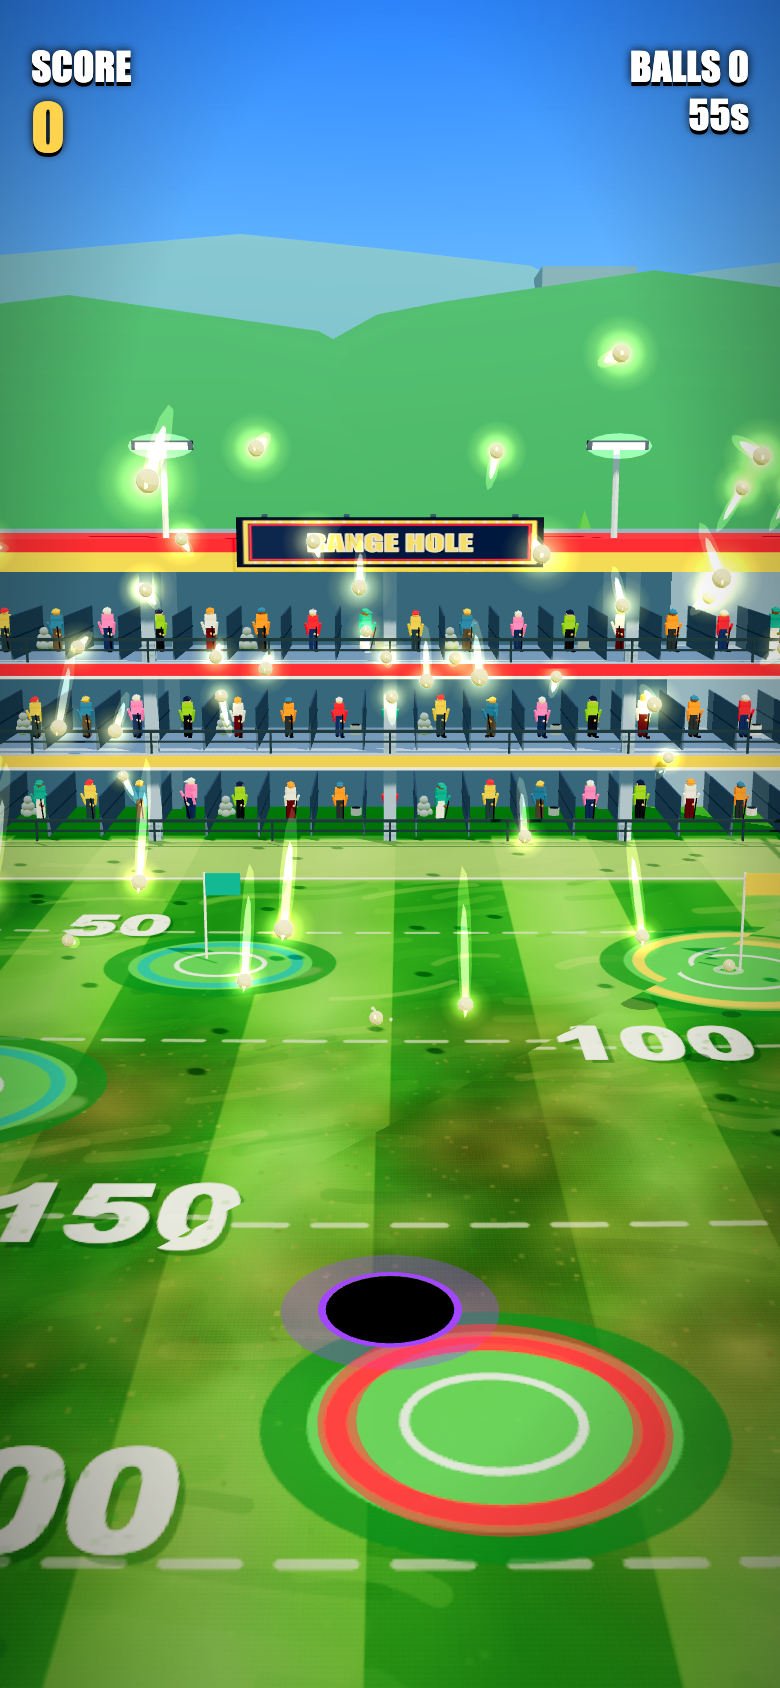
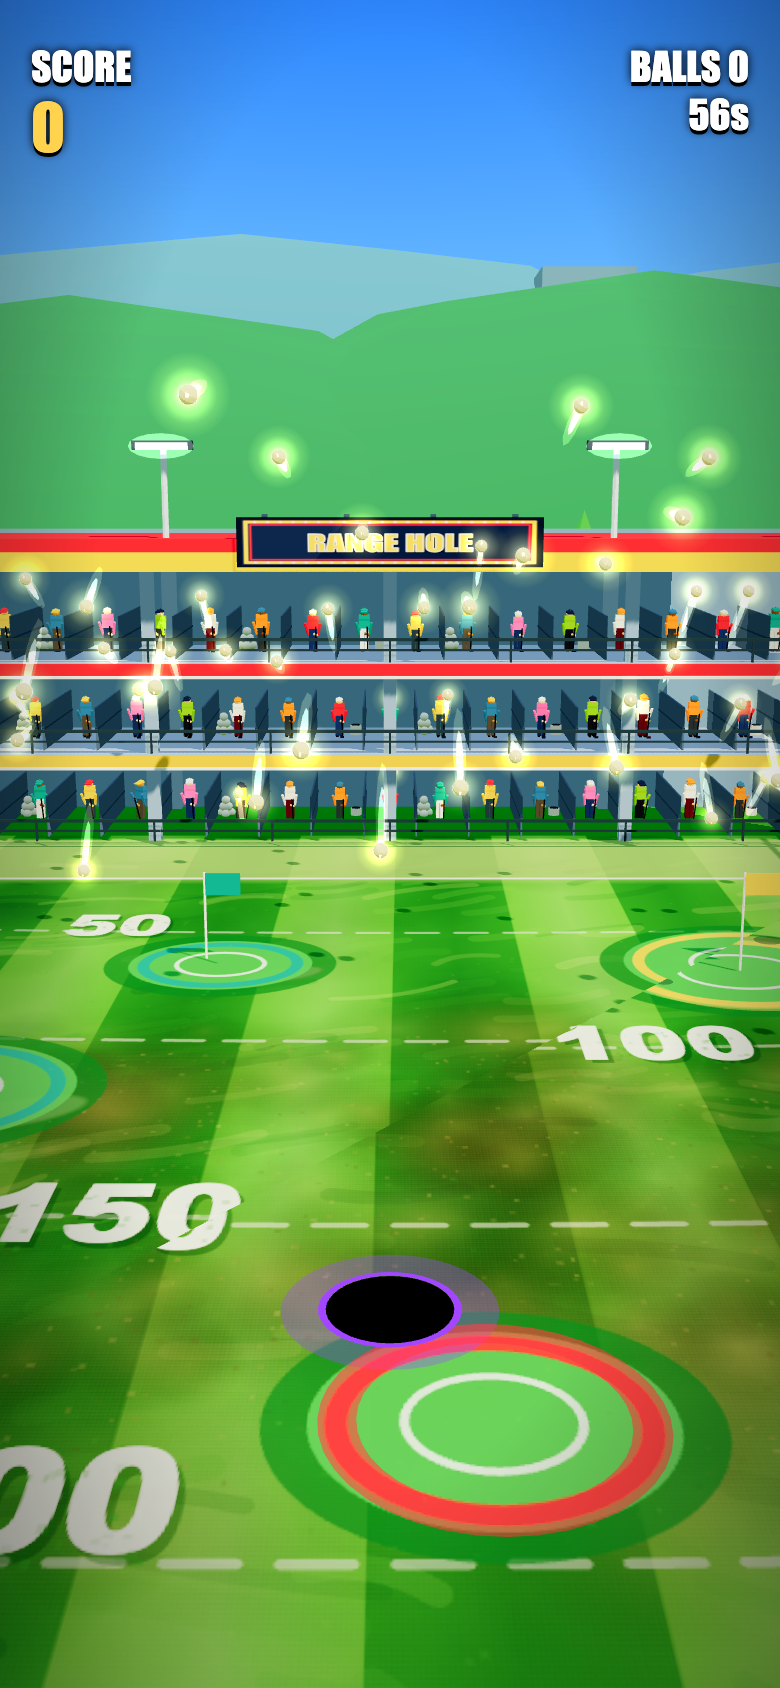
Range Hole (Neon): lock to HOA Bright Day only (remove time-of-day cycle)

diff --git a/games/range-hole/index.html b/games/range-hole/index.html
@@ -1,23 +1,15 @@
 <!doctype html><html lang="en"><head><meta charset="utf-8"><meta name="viewport" content="width=device-width,initial-scale=1,maximum-scale=1,user-scalable=no"><title>Range Hole</title></head><body>
 <script type="module">
-/* RANGE HOLE — Cherie's concept: a triple-deck driving range, 100 golfers
-   all hitting, and YOU are the hole. Built on the Black Hole City kit
-   (same gp3d/gpkit vendor stack, stage, sky, black disc + purple ring +
-   aura, tip/shrink/sink swallow). Camera: one locked FULL VIEW — a
-   gentle follow at a fixed offset and fixed fov, never a zoom, never a
-   cut. Every ball carries its own state: on launch it flies its high
-   arch in personal slow motion (~0.3x for the first ~1.3 s of its own
-   flight), then flips to normal speed for the drop, bounce and roll.
-   Drag the hole around the range grass and swallow balls BEFORE they
-   bounce away their value: a ball eaten on the fly (straight into the
-   cup, no bounce) pays the full 50 pts; every bounce before the eat
-   costs 10 pts (40/30/20/10), and a ball that has stopped rolling
-   pays 0 — it still fills the hole, but it doesn't feed the combo.
-   Chain scoring catches inside 2 s to build a combo multiplier.
-   60 seconds.
-   Time-of-day cycle: 1 real minute = 1 in-game hour (starts at 16:09
-   HOA Bright Day and glides smoothly into Golden Hour over the 60s
-   round, continuing into dusk/lit night range/dawn across replays). */
+/* RANGE HOLE — Cherie's concept: a half-width triple-deck driving range
+   (50 golfers all hitting), and YOU are the hole. Built on the Black Hole
+   City kit (same gp3d/gpkit vendor stack, stage, sky, black disc + purple
+   ring + aura, tip/shrink/sink swallow). Camera: open full-range view
+   showing the drivers, high-arcing slow-mo balls, and painted field.
+   Every ball flies, bounces, and rolls in smooth slow motion (0.3x) the
+   whole time — no speed-up. Drag the hole around the range grass and
+   swallow balls BEFORE they bounce away their value: 50 pts on the fly,
+   −10 per bounce, 0 once stopped. Chain catches inside 2 s for combos.
+   HOA Bright Day grade only. 60 seconds. */
 import { createStage, sfx, rand, clamp, THREE } from './vendor/gp3d.js';
 import { toon, build, crowd, particles, sky, groundTex, treeGeo, walkClock } from './vendor/gpkit.js';
 
@@ -25,39 +17,14 @@ const qs = new URLSearchParams(location.search);
 const S = { title: 'RANGE HOLE', sub: '50 golfers. One hole. Catch the balls while they\'re fast! 60 seconds.', seconds: +(qs.get('seconds') || 60), ringColor: 0x7b4bff, skyTop: 0x3b9cf5, skyBottom: 0xcbeaff, bg: 0x9fd8ff, winScore: 1000 };
 const st = createStage({ style: 'toon', bg: S.bg, fitWidth: 16, fov: 58 });
 st.renderer.shadowMap.enabled = true; st.renderer.shadowMap.type = THREE.PCFSoftShadowMap;
-const hemi = new THREE.HemisphereLight(0xdff4ff, 0x6a8d4a, 1.8);
-st.scene.add(hemi);
+st.scene.add(new THREE.HemisphereLight(0xdff4ff, 0x6a8d4a, 1.8));
 const sun = new THREE.DirectionalLight(0xfff3d6, 2.1);
 sun.position.set(30, 50, 20); sun.castShadow = true;
 sun.shadow.camera.left = -42; sun.shadow.camera.right = 42; sun.shadow.camera.top = 54; sun.shadow.camera.bottom = -54;
 sun.shadow.camera.near = 1; sun.shadow.camera.far = 175; sun.shadow.bias = -0.0012; sun.shadow.mapSize.set(2048, 2048);
 sun.target.position.set(0, 0, -6); st.scene.add(sun); st.scene.add(sun.target);
-const skyMesh = sky(st.scene, S.skyTop, S.skyBottom, [135, 420]);
+sky(st.scene, S.skyTop, S.skyBottom, [135, 420]);
 const fx = particles(st.scene, 480);
-
-/* ================= 24-hour time-of-day cycle (1 real minute = 1 in-game hour) =================
-   Starts at 16.15 (4:09 PM HOA Bright Day) so a single 60-second round sweeps naturally from
-   crisp HOA Bright Day into Late-Afternoon Golden Hour (~17:09), and replays continue through
-   sunset, twilight, stadium-lit night range, dawn, and back to HOA Bright Day. */
-const START_HOUR = qs.has('hour') ? ((+qs.get('hour') || 0) % 24 + 24) % 24 : 16.15;
-const CLOCK_ORIGIN_MS = performance.now();
-let pinnedHour = qs.has('hour') ? START_HOUR : null;
-const currentHour = () => pinnedHour !== null
-  ? pinnedHour
-  : ((START_HOUR + (performance.now() - CLOCK_ORIGIN_MS) / 60000) % 24 + 24) % 24;
-
-const TOD_KEYS = [
-  { h: 0.0,  skyTop: 0x0b1630, skyBot: 0x1d2e52, fog: [100, 320], hemiTop: 0x6e8cc2, hemiBot: 0x2c3b36, hemiI: 1.18, sunC: 0xfff0c8, sunI: 1.35, sunP: [0, 36, -26],  rangeT: 0xc2d2de, groundT: 0x9fb4c4, hillN: 0x253b3c, hillF: 0x24334d, skyL: 0x283652, lampC: 0xffe49e, lampO: 0.90, glowC: 0xffe27a, outerC: 0xffb340 },
-  { h: 5.5,  skyTop: 0x234580, skyBot: 0xe69f84, fog: [110, 350], hemiTop: 0xffd7ba, hemiBot: 0x4c5848, hemiI: 1.45, sunC: 0xffc98b, sunI: 1.75, sunP: [-42, 24, 18], rangeT: 0xf7e6cf, groundT: 0xe2cfb4, hillN: 0x496658, hillF: 0x736b82, skyL: 0x7c6f85, lampC: 0xffd98a, lampO: 0.58, glowC: 0xffe28c, outerC: 0xffbe59 },
-  { h: 8.5,  skyTop: 0x3b9cf5, skyBot: 0xcbeaff, fog: [135, 420], hemiTop: 0xdff4ff, hemiBot: 0x6a8d4a, hemiI: 1.80, sunC: 0xfff3d6, sunI: 2.10, sunP: [-28, 48, 22], rangeT: 0xffffff, groundT: 0xffffff, hillN: 0x4c9a68, hillF: 0x6ba6ba, skyL: 0x7b9fb5, lampC: 0xfff4cf, lampO: 0.28, glowC: 0xffe89c, outerC: 0xffd56b },
-  { h: 16.15,skyTop: 0x3b9cf5, skyBot: 0xcbeaff, fog: [135, 420], hemiTop: 0xdff4ff, hemiBot: 0x6a8d4a, hemiI: 1.80, sunC: 0xfff3d6, sunI: 2.10, sunP: [30, 50, 20],  rangeT: 0xffffff, groundT: 0xffffff, hillN: 0x4c9a68, hillF: 0x6ba6ba, skyL: 0x7b9fb5, lampC: 0xfff4cf, lampO: 0.32, glowC: 0xffe89c, outerC: 0xffd56b },
-  { h: 17.2, skyTop: 0x327ed2, skyBot: 0xffcf94, fog: [110, 370], hemiTop: 0xffe9c7, hemiBot: 0x5c6449, hemiI: 1.65, sunC: 0xffd596, sunI: 2.35, sunP: [44, 34, 24],  rangeT: 0xfff4d6, groundT: 0xeadca8, hillN: 0x5d7e58, hillF: 0x8d828c, skyL: 0x9b8288, lampC: 0xffd478, lampO: 0.64, glowC: 0xffdf80, outerC: 0xffb84d },
-  { h: 18.35,skyTop: 0x223b78, skyBot: 0xf09278, fog: [105, 340], hemiTop: 0xffc8a8, hemiBot: 0x444552, hemiI: 1.38, sunC: 0xffb67a, sunI: 1.75, sunP: [48, 18, 22],  rangeT: 0xebd7c4, groundT: 0xcfbba8, hillN: 0x435252, hillF: 0x6c5c75, skyL: 0x725e78, lampC: 0xffd87c, lampO: 0.82, glowC: 0xffdd78, outerC: 0xffae42 },
-  { h: 19.6, skyTop: 0x0b1630, skyBot: 0x1d2e52, fog: [100, 320], hemiTop: 0x6e8cc2, hemiBot: 0x2c3b36, hemiI: 1.18, sunC: 0xfff0c8, sunI: 1.35, sunP: [0, 36, -26],  rangeT: 0xc2d2de, groundT: 0x9fb4c4, hillN: 0x253b3c, hillF: 0x24334d, skyL: 0x283652, lampC: 0xffe49e, lampO: 0.90, glowC: 0xffe27a, outerC: 0xffb340 },
-  { h: 24.0, skyTop: 0x0b1630, skyBot: 0x1d2e52, fog: [100, 320], hemiTop: 0x6e8cc2, hemiBot: 0x2c3b36, hemiI: 1.18, sunC: 0xfff0c8, sunI: 1.35, sunP: [0, 36, -26],  rangeT: 0xc2d2de, groundT: 0x9fb4c4, hillN: 0x253b3c, hillF: 0x24334d, skyL: 0x283652, lampC: 0xffe49e, lampO: 0.90, glowC: 0xffe27a, outerC: 0xffb340 }
-];
-const _ca = new THREE.Color(), _cb = new THREE.Color();
-function lerpCol(target, hexA, hexB, u) { _ca.setHex(hexA); _cb.setHex(hexB); target.copy(_ca).lerp(_cb, u); }
 
 /* ============================ the range ============================
    Half-width decks at the far end (z ~ -44), golfers hit toward +z.
@@ -503,44 +470,6 @@ function spawnLandingPuff(x, z) {
   pf.on = true; pf.x = x; pf.z = z; pf.t = 0;
 }
 
-function applyTimeOfDay(hr) {
-  let i = 0;
-  while (i < TOD_KEYS.length - 2 && TOD_KEYS[i + 1].h <= hr) i++;
-  const a = TOD_KEYS[i], b = TOD_KEYS[i + 1];
-  const u = clamp((hr - a.h) / Math.max(0.0001, b.h - a.h), 0, 1);
-  const e = u * u * (3 - 2 * u);
-
-  lerpCol(skyMesh.material.uniforms.a.value, a.skyTop, b.skyTop, e);
-  lerpCol(skyMesh.material.uniforms.b.value, a.skyBot, b.skyBot, e);
-  st.scene.background.copy(skyMesh.material.uniforms.b.value);
-  st.scene.fog.color.copy(skyMesh.material.uniforms.b.value);
-  st.scene.fog.near = a.fog[0] + (b.fog[0] - a.fog[0]) * e;
-  st.scene.fog.far = a.fog[1] + (b.fog[1] - a.fog[1]) * e;
-
-  lerpCol(hemi.color, a.hemiTop, b.hemiTop, e);
-  lerpCol(hemi.groundColor, a.hemiBot, b.hemiBot, e);
-  hemi.intensity = a.hemiI + (b.hemiI - a.hemiI) * e;
-
-  lerpCol(sun.color, a.sunC, b.sunC, e);
-  sun.intensity = a.sunI + (b.sunI - a.sunI) * e;
-  sun.position.set(
-    a.sunP[0] + (b.sunP[0] - a.sunP[0]) * e,
-    a.sunP[1] + (b.sunP[1] - a.sunP[1]) * e,
-    a.sunP[2] + (b.sunP[2] - a.sunP[2]) * e
-  );
-
-  lerpCol(rangeMat.color, a.rangeT, b.rangeT, e);
-  lerpCol(groundMat.color, a.groundT, b.groundT, e);
-  lerpCol(hillNearMat.color, a.hillN, b.hillN, e);
-  lerpCol(hillFarMat.color, a.hillF, b.hillF, e);
-  lerpCol(skylineMat.color, a.skyL, b.skyL, e);
-  lerpCol(lampGlowMat.color, a.lampC, b.lampC, e);
-  lampGlowMat.opacity = a.lampO + (b.lampO - a.lampO) * e;
-  lerpCol(bGlowMat.color, a.glowC, b.glowC, e);
-  lerpCol(streakOuterMat.color, a.outerC, b.outerC, e);
-}
-applyTimeOfDay(currentHour());
-
 const _o = new THREE.Object3D(); _o.rotation.order = 'YXZ';
 const HOT = new THREE.Color(0xfff4b8), DEAD = new THREE.Color(0x565e66), _c = new THREE.Color();
 const ballSpeed = b => b.state === 'fly' ? Math.hypot(b.vx, b.vy, b.vz) : Math.hypot(b.vx, b.vz);
@@ -685,14 +614,13 @@ function update(dt) {
     endcard.style.display = 'block';
     st.end({ win: score >= S.winScore, score, label: 'POINTS' });
   }
-  window.__game = { score, eaten: eatenCt, size: +size.toFixed(2), chain, bestChain, bestCatch, live: balls.filter(b => b.on).length, flying: balls.filter(b => b.on && b.state === 'fly').length, slow: balls.filter(b => b.on && b.state === 'fly' && b.slowT > 0).length, ts: st.timeScale, hour: +currentHour().toFixed(2) };
+  window.__game = { score, eaten: eatenCt, size: +size.toFixed(2), chain, bestChain, bestCatch, live: balls.filter(b => b.on).length, flying: balls.filter(b => b.on && b.state === 'fly').length, slow: balls.filter(b => b.on && b.state === 'fly' && b.slowT > 0).length, ts: st.timeScale };
 }
 
 const camP = new THREE.Vector3(0, 12, 12), look = new THREE.Vector3();
 let camSnap = false;
 function pre() {
   const t = st.t;
-  applyTimeOfDay(currentHour());
   golfers.forEach((g, i) => {
     let c = t - g.start; if (c < 0) c = 0; if (c >= g.period) c = g.period - .001;
     const p = swingPose(g, c, t);
@@ -777,13 +705,11 @@ function pre() {
 }
 st.camera.position.set(hx, CAM_H, hz + CAM_D); st.run(update, pre);
 
-/* QA hooks (read-only + capture placement + time-of-day preview) */
+/* QA hooks (read-only + capture placement) */
 const _v = new THREE.Vector3();
 function toScreen(x, y, z) { _v.set(x, y, z).project(st.camera); return { x: Math.round((_v.x * .5 + .5) * innerWidth), y: Math.round((-_v.y * .5 + .5) * innerHeight) }; }
 window.__SAMPLE = {
   setHole: (x, z) => { hx = tx = x; hz = tz = z; camSnap = true; },
-  setHour: h => { pinnedHour = h === null ? null : ((h % 24) + 24) % 24; applyTimeOfDay(currentHour()); },
-  hour: () => +currentHour().toFixed(2),
   hole: () => toScreen(hx, 0, hz),
   holeWorld: () => ({ x: +hx.toFixed(1), z: +hz.toFixed(1), size: +size.toFixed(2) }),
   toScreen: (x, y, z) => toScreen(x, y, z),

diff --git a/games/range-hole/tasking/NEON-BRIEF.md b/games/range-hole/tasking/NEON-BRIEF.md
@@ -35,11 +35,11 @@ Before building anything out, push 390×844 phone stills (same spawn framing as 
   - Full write-up: `games/range-hole/tasking/responses/neon-range-stills.md`
 - **HOW (method, tools, verification):** Captured via `games/range-hole/tools/capture-range-stills.mjs` (headless Chrome CDP SwiftShader + Node `WebSocket` + `uv run --with pillow python3`, seeded PRNG = 42, `390×844` DPR 2). Verified `exit 0`, `consoleErrors=0`, `pageExceptions=0`, and visually inspected all contact sheets and Retina stills.
 
-### 2026-11-27 — Neon · Live Rollout to `games/range-hole/index.html` (Owner Directed)
+### 2026-11-27 — Neon · Live Rollout to `games/range-hole/index.html` (Owner Directed — Bright Day Only)
 - **What shipped in `games/range-hole/index.html`:**
-  - **Both grades + 24-hour real-time cycle (`1 real minute = 1 in-game hour`):** Starts at `16:09` (HOA Bright Day) so a single 60-second round sweeps naturally into Golden Hour (`17:09`), continuing through sunset, twilight, stadium-lit night range, dawn, and back to HOA Day across replays (`applyTimeOfDay()`, zero per-frame canvas redraws; supports `?hour=H` and `window.__SAMPLE.setHour(h)`).
+  - **Locked HOA Bright Day only:** Removed all time-of-day cycling and alternate grade options; pure crisp HOA daytime light rig (`hemi 0xdff4ff/0x6a8d4a`, `sun 0xfff3d6` at `(30, 50, 20)`), bright blue sky, painted range, `"RANGE HOLE"` marquee, floodlights, and rolling hills.
   - **Permanent slow-mo flight (no speed-up):** Every ball runs at `dt * SLOW_TS` (`0.3x`) for its entire flight, descent, bounces, and roll — never speeding back up to 1x.
-  - **Open full-range camera angle:** Updated to `CAM_H = 17.5, CAM_D = 30.0, LOOK_Y = 7.2, LOOK_Z = 14, fov = 58` so players see almost the entire triple-deck driving bay, the `"RANGE HOLE"` marquee, floodlights, rolling foothills, sky, and soaring high-arc balls cleanly above the painted range and hole.
+  - **Open full-range camera angle:** `CAM_H = 17.5, CAM_D = 30.0, LOOK_Y = 7.2, LOOK_Z = 14, fov = 58` framing nearly the entire half-width triple-deck driving bay, marquee, floodlights, hills, sky, soaring high-arc balls, and painted field together.
   - **Half-width driving bay (50 bays):** `DECK_COUNTS = [17, 17, 16]` (width `48u`, `HX = [-25, 25]`, half-width `rangeTex()`, perimeter netting at `x = ±27.5`, flank clubhouses at `±36`, side trees framing closely).
   - **Faster hole movement:** Snappier drag and keyboard steering (`spd = 58`, `f = dt * 18`, `cap = 82 * dt`) plus grazing-angle Z-fighting fix (`ground.position.y = -0.18` with positive `polygonOffset` vs painted range at `y = 0.0`).
-- **Verification:** `node games/range-hole/tools/verify-live.mjs` (`390×844` DPR 2): `exit 0`, `Errors check: 0`, `golfers: 50`, `flying: 57 / slow: 57`, `deltaHour: +0.1h / 6s` (`1h / 60s`). Visually inspected `games/range-hole/tasking/responses/neon-range-stills/SBS-live-time-cycle.png` and `live-day.png`.
+- **Verification:** `node games/range-hole/tools/verify-live.mjs` (`390×844` DPR 2): `exit 0`, `Errors check: 0`, `golfers: 50`, `flying: 49 / slow: 49`. Visually inspected `games/range-hole/tasking/responses/neon-range-stills/live-day.png`.
